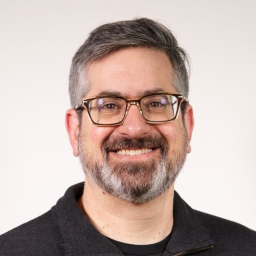
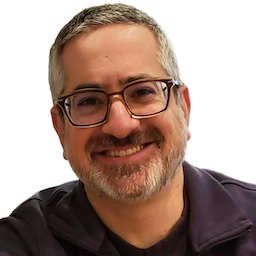
first update in a while, new pic

diff --git a/content/about.md b/content/about.md
@@ -9,6 +9,7 @@ I've been excited about software since I discovered [Asyst](https://www.science.
 
 The data went from electrical impulses in a goat to analyzed output in record time, and I never had to do math by hand since!
 
- Since then, I've watched "the computer" go from my personal force multiplier to an indispensable part of most people's lives. 
- 
- While the tech world was innovating, I moved around the east coast and had a trilogy of children. I am happily married to a [Philly](https://www.visitphilly.com/) girl and made this city my home.
+ Since then, I've watched "the computer" go from my personal force multiplier to an indispensable part of most people's lives.
+
+ While the tech world was innovating, I moved around the east coast and had a trilogy of children. I am happily married to a [Philly](https://www.visitphilly.com/) native and made this city my home.
+

diff --git a/content/post/using-azure-static-web-apps/cicd..md b/content/post/using-azure-static-web-apps/cicd..md
@@ -1,6 +1,6 @@
 ---
 title: "Deploying Hugo to Azure Static Web Apps using github actions" 
-date: 2021-10-31-27T10:00:08-04:00 
+date: 2021-10-27T08:33:08-04:00 # Date of post creation.
 description: "Example of how to build a hugo static site and deploy to Azure Static Web App Using Github Actions CI/CD"
 featured: false 
 draft: false
